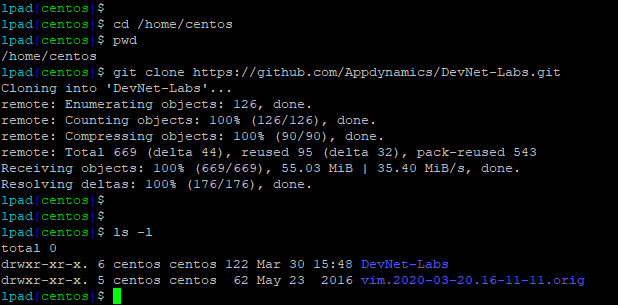
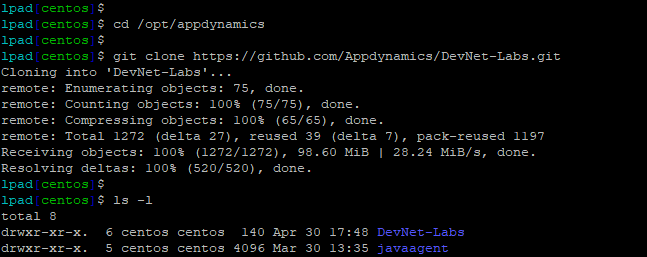
Initial commit

Changed region(s): [[0.0, 0.0, 0.9531, 1.0]]

diff --git a/labs/appd-brum-101/lab-exercise-01.md b/labs/appd-brum-101/lab-exercise-01.md
@@ -1,12 +1,20 @@
-# Get started with AppDynamics Java Application Monitoring
+# Get started with AppDynamics Browser Real User monitoring
 
 ## Objectives
 
-In this Lab you learn how to use AppDynamics to monitor the health of your application services. In this Lab, you learn how to install and configure the Java Application Performance Monitoring (APM) agent to monitor your application's health, how to troubleshoot application performance issues to find root cause, and how to monitor alerts in AppDynamic's monitoring service based off of data captured by AppDynamics.
+In this Lab you learn how to use AppDynamics to monitor the health of your browser based application. In this Lab, you learn how to configure the Browser Real User Monitoring (BRUM) agent to monitor your web application's health, how to troubleshoot application performance issues to find root cause, and how to monitor alerts in AppDynamic's monitoring service based off of data captured by AppDynamics.
 
 ## Prerequisites
 
-You should already have access to the virtual machines for the lab.  If do not already have access to the VMs for the lab, follow the instructions [here](../appd-sandbox-setup-101/lab-exercise-01.md).  You should have basic experience with Java and Linux.
+You should already have access to the virtual machines for the lab.  If do not already have access to the VMs for the lab, follow the instructions [here](../appd-sandbox-setup-101/lab-exercise-01.md).
+
+  
+- You will need to use the same Lab Virtual Machines you used in the AppDynamics Java Application Monitoring 101 Lab
+- This Lab has dependencies associated with the AppDynamics Java Application Monitoring 101 Lab
+- Please complete the [AppDynamics Java Application Monitoring 101 Lab](../appd-apm-java-101/lab-exercise-01.md) before you proceed with this Lab if you have not already done so.
+
+  
+
 
 ## Lab Contents
 This lab covers six main areas:

diff --git a/labs/appd-apm-java-101/lab-exercise-04.md b/labs/appd-apm-java-101/lab-exercise-04.md
@@ -12,7 +12,7 @@ In this exercise you will need to do the following:
 Use the commands below to clone the GitHub lab repository.
 
 ```
-cd /home/centos
+cd /opt/appdynamics
 
 git clone https://github.com/Appdynamics/DevNet-Labs.git
 ```
@@ -56,7 +56,7 @@ You should now see the Tomcat Manager App page as seen in the image below.  Foll
 ```
 2. Enter the value below in the "WAR or Directory path:" field
 ```
-file://home/centos/DevNet-Labs/applications/Supercar-Trader/Supercar-Trader.war
+file://opt/appdynamics/DevNet-Labs/applications/Supercar-Trader/Supercar-Trader.war
 ```
 3. Click on the "Deploy" button
 
@@ -91,9 +91,9 @@ You should see the home page like the image below.
 Initiate the transaction load for the application using the commands below.
 
 ```
-sudo chmod 754 /home/centos/DevNet-Labs/applications/Load-Generator/phantomjs/*.sh
+sudo chmod 754 /opt/appdynamics/DevNet-Labs/applications/Load-Generator/phantomjs/*.sh
 
-cd /home/centos/DevNet-Labs/applications/Load-Generator/phantomjs
+cd /opt/appdynamics/DevNet-Labs/applications/Load-Generator/phantomjs
 
 ./start_load.sh
 ```
